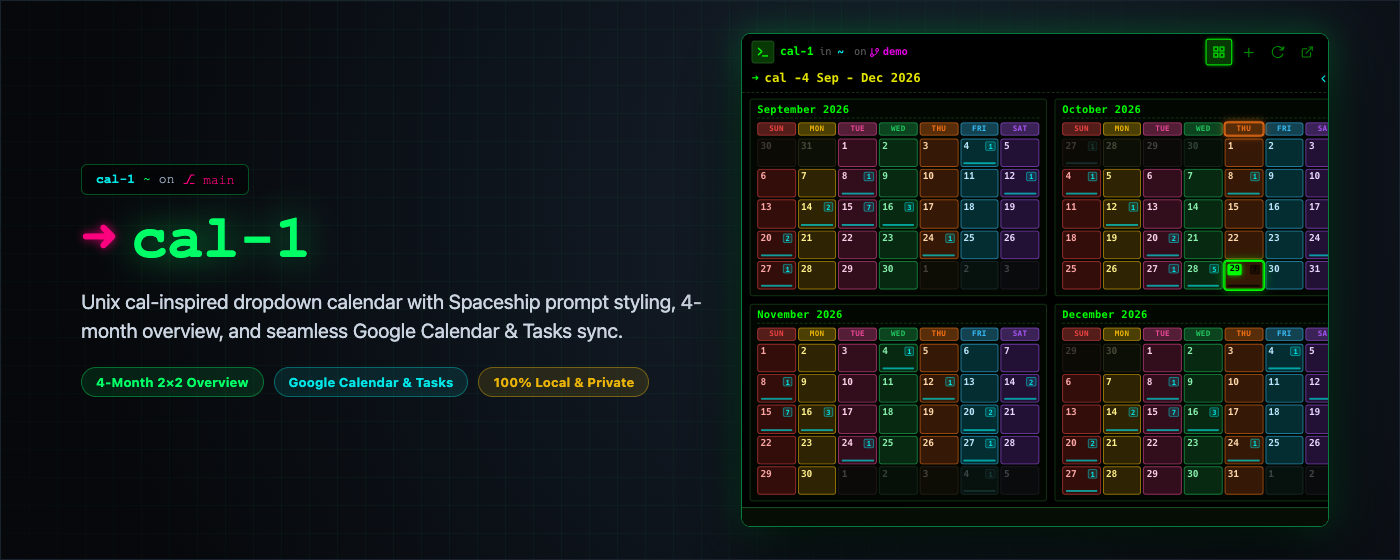
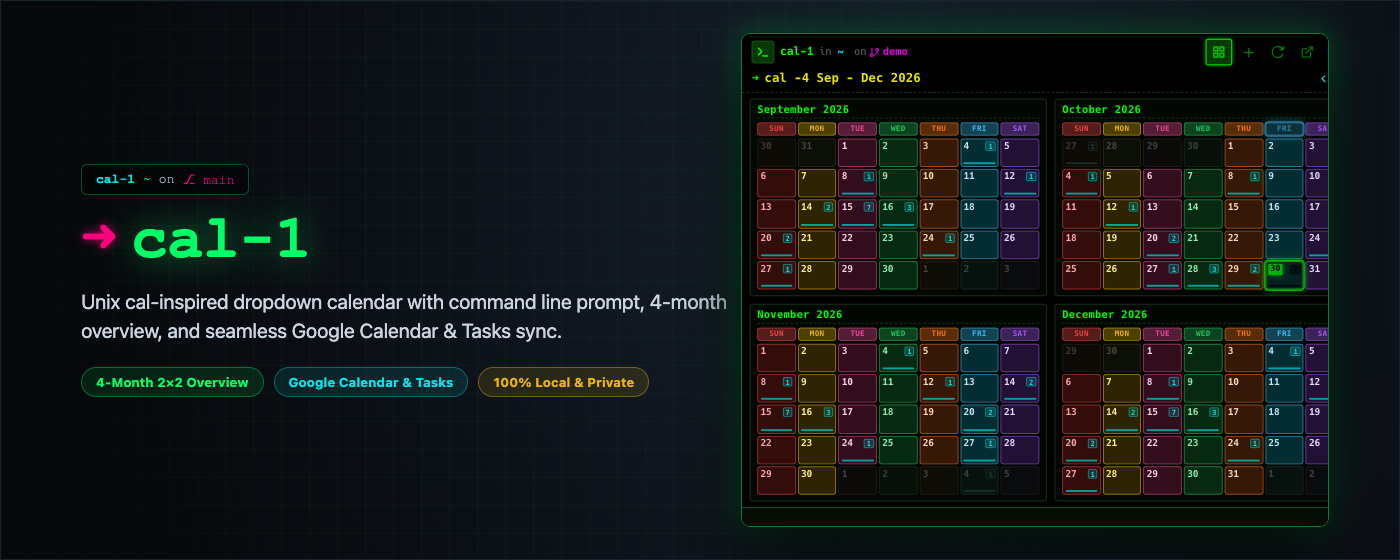
refactor(copy): clarify terminal calendar purpose and replace Spaceship wording with command line prompt in promo tiles and store metadata

Changed region(s): [[0.0614, 0.5161, 0.5221, 0.6071], [0.86, 0.4554, 0.9521, 0.5464], [0.86, 0.2125, 0.9521, 0.2732]]

diff --git a/docs/index.html b/docs/index.html
@@ -5,7 +5,7 @@
   <meta name="viewport" content="width=device-width, initial-scale=1.0" />
   <!-- Paste Google Search Console verification meta tag below this line if needed -->
   <title>cal-1 — Unix Terminal Calendar for Chrome</title>
-  <meta name="description" content="cal-1 is a lightweight, Unix cal-inspired dropdown calendar Chrome extension with Spaceship prompt, 4-month 2x2 overview, hover schedules, and Google Calendar sync." />
+  <meta name="description" content="cal-1 is a lightweight, Unix cal-inspired dropdown calendar Chrome extension with command line prompt, 4-month 2x2 overview, hover schedules, and Google Calendar sync." />
   <style>
     :root {
       --bg: #080b0f;
@@ -111,7 +111,7 @@
 
     <h1>cal-1</h1>
     <p class="subtitle">
-      Unix <code>cal(1)</code>-inspired dropdown calendar for Google Chrome with Spaceship prompt styling, 4-month 2×2 overview, hover schedule inspection, and Google Calendar &amp; Tasks synchronization.
+      Unix <code>cal(1)</code>-inspired dropdown calendar for Google Chrome with command line prompt styling, 4-month 2×2 overview, hover schedule inspection, and Google Calendar &amp; Tasks synchronization.
     </p>
 
     <div class="grid">

diff --git a/store-assets/promo-canvas.html b/store-assets/promo-canvas.html
@@ -281,7 +281,7 @@
       </div>
 
       <div class="small-tagline">
-        Unix cal & Spaceship Prompt for Chrome
+        Unix cal-inspired terminal calendar with command line prompt
       </div>
 
       <div class="small-pills">
@@ -314,7 +314,7 @@
       </div>
 
       <div class="marquee-desc">
-        Unix cal-inspired dropdown calendar with Spaceship prompt styling, 4-month overview, and seamless Google Calendar & Tasks sync.
+        Unix cal-inspired dropdown calendar with command line prompt, 4-month overview, and seamless Google Calendar & Tasks sync.
       </div>
 
       <div class="marquee-pills">

diff --git a/store-assets/frame.html b/store-assets/frame.html
@@ -233,7 +233,7 @@
       <span id="badgeText">cal-1 • Unix Terminal Calendar</span>
     </div>
     <h1 class="scene-title" id="sceneTitle">4-Month 2×2 Overview</h1>
-    <p class="scene-subtitle" id="sceneSubtitle">Effortlessly glance at 4 consecutive months with Spaceship prompt and directional scan transitions</p>
+    <p class="scene-subtitle" id="sceneSubtitle">Effortlessly glance at 4 consecutive months with command line prompt and directional scan transitions</p>
   </div>
 
   <div class="browser-frame">

diff --git a/scripts/generate-promo-tiles.js b/scripts/generate-promo-tiles.js
@@ -45,7 +45,7 @@ const CHROME_BIN = '/Applications/Google Chrome.app/Contents/MacOS/Google Chrome
   ]);
 
   let tabs = [];
-  for (let i = 0; i < 35; i++) {
+  for (let i = 0; i < 60; i++) {
     await new Promise(r => setTimeout(r, 200));
     try {
       const resp = await fetch(`http://127.0.0.1:${DEBUG_PORT}/json`);

diff --git a/CHROMEWEBSTORE.md b/CHROMEWEBSTORE.md
@@ -10,14 +10,14 @@
 `cal-1`
 
 **Short Description** [REQUIRED] (Max 132 characters)  
-`Unix cal-inspired terminal calendar with Spaceship prompt, 4-month 2x2 view, hover schedules, and Google Calendar sync.`
+`Unix cal-inspired terminal calendar with command line prompt, 4-month 2x2 view, hover schedules, and Google Calendar sync.`
 
 **Detailed Description** [REQUIRED]  
 ```text
-cal-1 brings the speed, minimalism, and aesthetic of the classic Unix cal utility into your Chrome browser, paired with modern Spaceship prompt styling and seamless Google Calendar sync.
+cal-1 brings the speed, minimalism, and aesthetic of the classic Unix cal utility into your Chrome browser, paired with a retro command line prompt and seamless Google Calendar sync.
 
 KEY FEATURES
-• Spaceship Prompt Header: Clean terminal-style prompt indicating the active calendar feed and quick switcher.
+• Command Line Prompt Header: Clean terminal-style prompt indicating the active calendar feed and quick switcher.
 • 4-Month 2×2 Overview: See four consecutive months side by side with uniform grid cards, Thai daily color coding, and directional scan transitions.
 • 1-Month Focused View: Click any month card or use arrow navigation to zoom into a detailed monthly calendar.
 • Full-Width Hover Popover: Hover over any day in 4-month view to immediately inspect scheduled meetings, tasks, and holiday banners.
